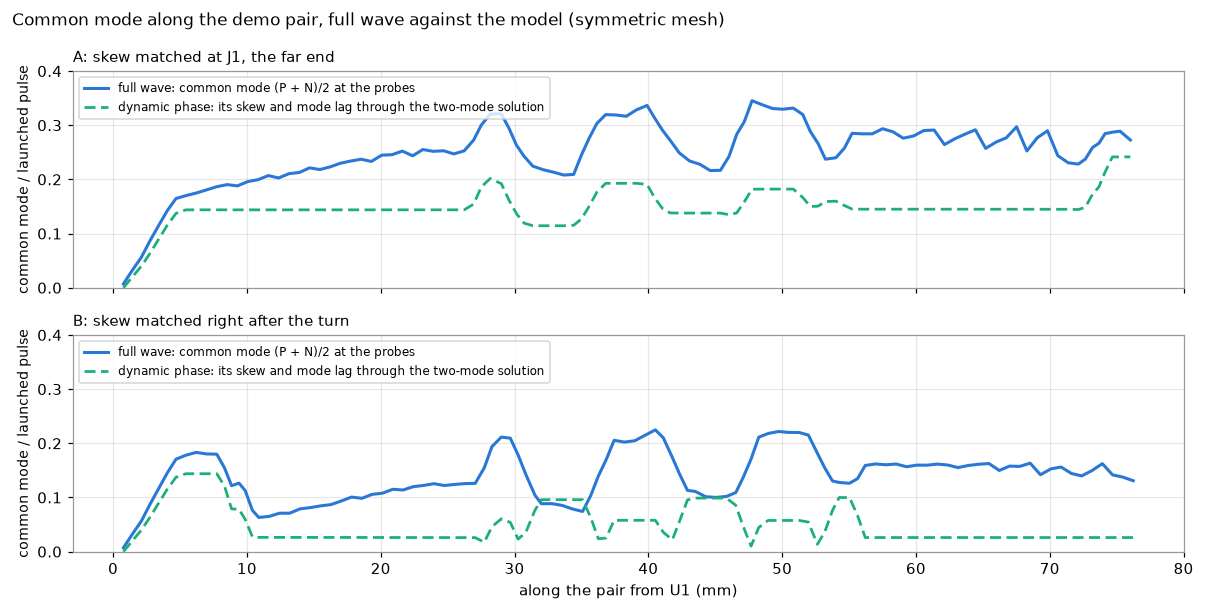
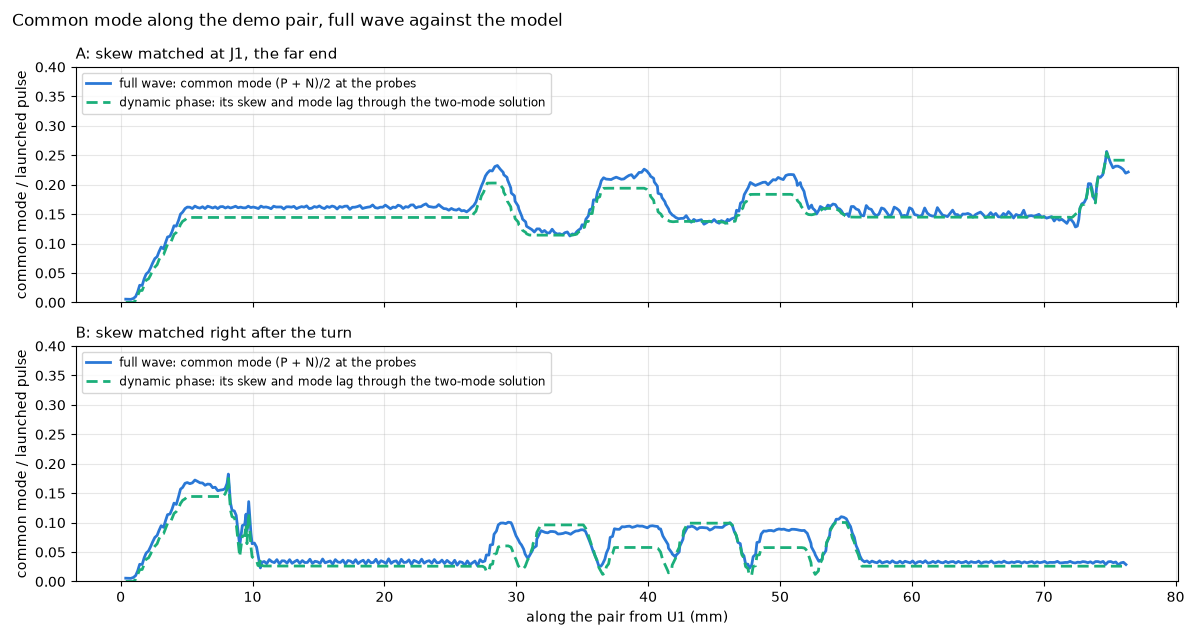
README and dynamic phase guide: equations, sources and the clean full-wave numbers
README: a Dynamic phase section with the core equations, how far it is checked and the
sources. Guide: the openEMS numbers and both common-mode figures redone from the runs with
the traces' edges on the mesh alike (25 % and 3.3 % at J1, mode lag 0.32–0.36 ps/mm, no
growth along the straights); tight bends and meanders and the chart's band described.

diff --git a/docs/high-speed/dynamic-phase.md b/docs/high-speed/dynamic-phase.md
@@ -23,7 +23,7 @@ The tool measures and shows. It doesn't judge: there are no interface standards 
 
 ## The Δt chart
 
-**Export chart (SVG)** under the pair list writes one small plot per pair: Δt along the pair, dashed beside it Δt as a probe on each trace would read it (fading where the skew's common mode has fallen behind the edge, see [the drift](#the-equations-behind-it)), the marker tolerance as a green band, every excursion shaded orange with its peak, and over each plot the pair's ends, its end-to-end skew and its largest |Δt|. All plots share one scale, so the pairs compare at a glance. A source and its compensation read as a plateau: Δt steps up at the bend and only steps back where the compensating bump sits, and the plateau's width is how far apart they are. The numbers go into the SVG's `<metadata>` block and, unless you untick it in the file dialog, into a `.csv` beside it (pair, mm along the pair, Δt in ps).
+**Export chart (SVG)** under the pair list writes one small plot per pair: Δt along the pair, dashed beside it Δt as a probe on each trace would read it (fading where the skew's common mode has fallen behind the edge, see [the drift](#the-equations-behind-it)), the marker tolerance as a green band, every excursion shaded orange with its peak, and over each plot the pair's ends, its end-to-end skew and its largest |Δt|. All plots share one scale, so the pairs compare at a glance. A source and its compensation read as a plateau: Δt steps up at the bend and only steps back where the compensating bump sits, and the plateau's width is how far apart they are. Where a pair has tight bends or meanders, a pale blue band along the Δt line shows the known model error there (see [Assumptions](#assumptions-and-what-isnt-modelled)): up to 9 % more skew than a coupled bend's length difference, 10–20 % less than a tight meander's, applied to the Δt each of them made. Δt itself is not corrected. The numbers go into the SVG's `<metadata>` block and, unless you untick it in the file dialog, into a `.csv` beside it (pair, mm along the pair, Δt in ps as made and as read, and the band's two edges).
 
 ## From the DRC column
 
@@ -116,7 +116,7 @@ Skew turns differential signal into common mode. With P behind N by a small $\de
 
 $$V_\text{diff} = \frac{V_P - V_N}{2} \approx v\!\left(t - \tfrac{\delta}{2}\right), \qquad V_\text{cm} = \frac{V_P + V_N}{2} \approx -\frac{\delta}{2}\,\frac{dv}{dt}$$
 
-a common-mode pulse shaped like the edge's derivative, of order $\delta / t_r$ of the differential amplitude for a rise time $t_r$. A compensating bump $L$ mm further on makes the opposite pulse, aligned with the differential edge as it is then; the first one has fallen behind by $(\tau_\text{e} - \tau_\text{o})\,L$, and the two cancel only while that lag is small against $t_r$. That is the mode lag dynamic phase reports for each excursion (the lag per mm at the gap there, added up along both sides of the stretch; 0 where a side runs alone and on stripline): compare it with your edge's rise time. On the common-mode demo's pair (0.2 mm traces, 0.25 mm apart, 0.12 mm over εr 4.1) the lag is about 0.33 ps/mm, so a fix 73 mm along the pair from the turn (case A, the serpentine included) comes 24 ps late for a 25 ps edge and leaves two common-mode pulses (the full-wave run's two modes run 0.21 ps/mm apart, 16 ps over that stretch), while a fix 2 mm away (case B) cancels; the full-wave run gives a common-mode peak at J1 of 32 % of the differential one for A against 16 % for B. With a tuning profile the lag is in the profile's scale, as the delay is. Beside a pour the odd mode's ratio is applied to both modes; the pour's own effect on the even mode is not modelled.
+a common-mode pulse shaped like the edge's derivative, of order $\delta / t_r$ of the differential amplitude for a rise time $t_r$. A compensating bump $L$ mm further on makes the opposite pulse, aligned with the differential edge as it is then; the first one has fallen behind by $(\tau_\text{e} - \tau_\text{o})\,L$, and the two cancel only while that lag is small against $t_r$. That is the mode lag dynamic phase reports for each excursion (the lag per mm at the gap there, added up along both sides of the stretch; 0 where a side runs alone and on stripline): compare it with your edge's rise time. On the common-mode demo's pair (0.2 mm traces, 0.25 mm apart, 0.12 mm over εr 4.1) the lag is about 0.33 ps/mm, so a fix 73 mm along the pair from the turn (case A, the serpentine included) comes 24 ps late for a 25 ps edge and leaves two common-mode pulses (the full-wave run's two modes run 0.32–0.36 ps/mm apart, 23–26 ps over that stretch), while a fix 2 mm away (case B) cancels; the full-wave run gives a common-mode peak at J1 of 25 % of the differential one for A against 3.3 % for B (the two-mode solution from the model: 26 % and 2.6 %). With a tuning profile the lag is in the profile's scale, as the delay is. Beside a pour the odd mode's ratio is applied to both modes; the pour's own effect on the even mode is not modelled.
 
 ### The equations behind it
 
@@ -154,7 +154,7 @@ $$\Delta t_\text{read} = \delta\,e^{-\Delta\tau^2 / 2\sigma^2}, \qquad \sigma = 
 
 for a Gaussian edge: the skew reads in full where it is made and fades as its common mode falls behind, until the two edges are aligned again and the skew lives only in a common-mode pulse running behind them. Dynamic phase computes this along the route for any distribution of skew (`modes.apparent_dt`: the two-mode solution step by step, in the frequency domain, on a Gaussian edge of the *Edge rise time* setting) and carries it as a second curve, Δt as read, in the chart export; on stripline the two coincide. It is what a two-channel probe or a field solver's per-trace timing shows, not the skew itself, which is why neither is a measurement of Δt past the first discontinuity.
 
-Its size next to the differential signal is then of order $\delta\,\Delta\tau / t_r^2$, within a factor of a few that depends on the edge's shape; once $\Delta\tau$ exceeds the edge the two pulses no longer overlap and what is left is simply the whole common mode, twice over. On the demo's case A, $\delta$ = 8 ps, $\Delta\tau$ = 24 ps (73 mm of coupled pair between the turn and the bumps) and $t_r$ ≈ 25 ps: the order-of-magnitude form gives 0.3, the exact expression for a Gaussian pulse of that rise time 0.43, and the full-wave run gives 0.32 (the common-mode peak over the differential peak at J1's ports), so the three agree within a factor of two. Case B, $\Delta\tau$ under 1 ps, gives 0.02; the 0.16 measured there has other sources (the turn's own change of coupling, the bumps' lone stretches, the serpentine), so the estimate is only a floor. One run each.
+Its size next to the differential signal is then of order $\delta\,\Delta\tau / t_r^2$, within a factor of a few that depends on the edge's shape; once $\Delta\tau$ exceeds the edge the two pulses no longer overlap and what is left is simply the whole common mode, twice over. On the demo's case A, $\delta$ = 8 ps, $\Delta\tau$ = 24 ps (73 mm of coupled pair between the turn and the bumps) and $t_r$ ≈ 25 ps: the order-of-magnitude form gives 0.3, the exact expression for a Gaussian pulse of that rise time 0.43, the two-mode solution from the run's own launched pulse 0.26, and the full-wave run gives 0.25 (the common-mode peak over the differential peak at J1's ports), so all agree within a factor of two. Case B, $\Delta\tau$ under 1 ps, gives 0.02; the full-wave run gives 0.033 and the two-mode solution 0.026. One run each, three cells per dielectric height.
 
 ### Why Δt holds up when the estimate is off
 
@@ -168,7 +168,7 @@ Its size next to the differential signal is then of order $\delta\,\Delta\tau / 
 - **Microstrip:** no solder mask (delay a few % too low), zero copper thickness, and the next copper layer is assumed to be the reference plane.
 - **No plane underneath** (a plain coplanar waveguide, a 2-layer board without a pour on the other side, a plane several layers down) is not detected: a whole plane on the next copper layer is always assumed. Finding out what really lies under each trace is a field solver's job; a tuning profile with your own numbers covers such a board.
 - **Coupling** is modelled on outer layers: from the gap, by the estimate; with a tuning profile, the profile's number at its own gap scaled by that estimate's ratio (see above). On inner layers (stripline) coupling doesn't change the speed.
-- **Meander self-coupling,** which shortens a tight meander's real delay, is not modelled.
+- **Tight bends and meanders** count by their centreline length. A full-wave study on one pair geometry (0.2 mm traces, 0.25 mm apart, 0.12 mm of laminate; extrapolated over three meshes) found that a coupled 180° turn makes about 9 % more skew than its length difference, at both radii tried and with 45° corners alike, and that two tight bumps on one side (corner radius 1.25 track widths, legs 1.5 widths apart) make 17–20 % less skew than the length rule gives, mostly from their corners and partly from their legs' coupling to each other. Neither is corrected; the [Δt chart](#the-δt-chart) shades them as a band, 0 to +9 % on a coupled bend and −10 to −20 % on a tight meander (a corner radius or leg spacing under 3 track widths). A looser meander gets no band, since nothing was measured there.
 - **Grounded coplanar waveguide** is modelled on outer layers without a tuning profile: at each point, the distance to the nearest pour of another net on the same layer speeds that stretch up (a pour past 10 dielectric heights changes nothing). The pour is taken as one straight edge at that distance; stitching vias and the pour's own width are not considered.
 - **Vias** are treated as a piece of line. Pad and antipad capacitance and the via stub are ignored.
 - **Branches** (ESD stubs, second receivers) are shown but their loading isn't modelled.
@@ -210,18 +210,19 @@ The synthetic boards in [`tests/phase_boards.py`](../../tests/phase_boards.py) a
 | Lone trace, full wave | one trace of the coupled test pair (0.2 mm wide, 0.25 mm gap, 0.12 mm over εr 4.1) alone, in a 3D FDTD run (openEMS, not part of the repository): 5.876 ps/mm against the estimate's 5.865 (0.2 %); its ratio to the coupled pair 1.0316 against the estimate's 1.0311, which is the ratio the profile scaling uses. Single mesh, 8 cells per dielectric height; the same mesh put the pair within 0.1 % of a finer one |
 | Findings file | an excursion, a short, a loop, a branch and an unfinished side become findings the findings reader takes whole, every target found on the board |
 | Chart | every pair on one scale, the excursions shaded, the numbers in the SVG and the CSV |
+| Known model error | a coupled 90° turn's band reaches 9 % of the Δt it makes and an S closes it again; a tight bump's band is 10–20 % of its Δt, a looser bump's none; a straight pair has none |
 | No εr in the stackup | FR-4 is used and named as the source |
 | Microstrip vs stripline | microstrip is faster |
 | Coupled pair, and one beside a pour | within 1.5 % of a 2D field solver ([`tests/field_solver.py`](../../tests/field_solver.py)), which itself matches Kirschning and Jansen and Hammerstad and Jensen within 0.4 % |
-| The two traces' signals | from the model's skew, odd-mode delays and mode lag, the two voltages along the pair rebuilt with the modal solution above (every step a delay or a half-sum, done in the frequency domain) and compared with the full-wave run's probes on the demo's case A, on a mesh mirror-symmetric about the pair (on one that is not, the launch alone makes 4 % common mode and a plain straight pair drifts, so that reference was discarded). Just after the U-turn they lie on each other, the common-mode doublet included (figure below): the full-wave common mode is 0.17 of the launched pulse against 0.144 from the turn's centreline skew, 1.2 times, and the demo's bumps convert within 7 % of their skew. Along the straight coupled stretch that follows, the full-wave common mode keeps growing by about 0.005 of the launch per mm, after the turn alone, before A's serpentine and after B's bumps alike, within 40 ps of the differential pulse, so not a reflection, and on a symmetric mesh, so not an asymmetry: a uniform coupled line cannot do it and it is not understood. The serpentine's swings read 1.5 times the model's. A probe's timing on one trace mixes the two modes, so a full-wave per-trace Δt is not the skew the tool computes once common mode exists; the charts compare the common mode instead (second figure) |
-| Common mode along the pair | the full-wave common mode against the model's two-mode prediction on A and B (second figure): the turn makes it in both, B's bumps 2 mm later cut it from 0.18 to 0.07 (model 0.03), A's bumps at J1 leave it, and the serpentine's bends swing it in both; at J1's ports the common-mode peak is 32 % of the differential one for A and 16 % for B |
-| Even mode and mode lag | the even mode is slower than the odd mode on an outer layer, equal inside, the lone line's far apart and a line twice as wide for touching traces; the far-compensated board's excursion carries a lag proportional to its length (about 6 ps over 45 mm at the 1 mm pitch), the locally compensated one under a tenth of that, a stripline pair none. Against the field solver with a magnetic wall at the pair's midline (run on 2026-10-16, not in the repository) Kirschning and Jansen's even mode is within 1 % on the demo pair, the MIPI pair and the test boards' pair; the lag per mm, a difference of two roots, reads 1 to 10 % above the solver's (demo pair 0.33 against 0.30 ps/mm). In the full-wave run of the demo's case A the common and differential pulses, taken as the half-sum and half-difference of the probes side by side, run at 6.04 and 5.83 ps/mm along the straight stretch after the turn: a lag of 0.21 ps/mm, two thirds of the model's, on a finite board with its plane 3 mm beyond the copper and a mesh, mirror-symmetric about the pair, of three cells per dielectric height (one run, no finer mesh tried) |
+| The two traces' signals | from the model's skew, odd-mode delays and mode lag, the two voltages along the pair rebuilt with the modal solution above (every step a delay or a half-sum, done in the frequency domain) and compared with the full-wave run's probes on the demo's cases A and B, with every straight's coordinates rounded so that both traces' edges sit on the mesh alike (in earlier runs a rounding remainder after an arc put one trace's edges just off the mesh lines, the simulation gave the two traces different widths, and the common mode grew along every straight; those runs were discarded). Just after the U-turn the two lie within 2–3 ps of each other, the common-mode doublet included (figure below): the full-wave common mode is 0.16–0.17 of the launched pulse against 0.144 from the turn's centreline skew, 1.1–1.2 times (A's and B's meshes), in line with the extra skew a tight coupled turn makes (see [Assumptions](#assumptions-and-what-isnt-modelled)). Along the straight that follows it stays within 4.5 % of 0.160 for 20 mm, as the two-mode solution says, and after B's bumps 0.030 is left against the model's 0.026. The serpentine's common-mode swing reads 1.35 times the model's on A and 1.0 times on B. One run per case, three cells per dielectric height. A probe's timing on one trace mixes the two modes, so a full-wave per-trace Δt is not the skew the tool computes once common mode exists; the charts compare the common mode instead (second figure) |
+| Common mode along the pair | the full-wave common mode against the model's two-mode prediction on A and B (second figure): the turn makes it in both, B's bumps 2 mm later cut it from 0.17 to 0.030 (model 0.026), A's bumps at J1 raise it from 0.14 to 0.22–0.25 (model 0.24), since the turn's pulse is 24 ps behind by then and the two do not cancel, and the serpentine's bends swing it in both; at J1's ports the common-mode peak is 25 % of the differential one for A and 3.3 % for B (model 26 % and 2.6 %) |
+| Even mode and mode lag | the even mode is slower than the odd mode on an outer layer, equal inside, the lone line's far apart and a line twice as wide for touching traces; the far-compensated board's excursion carries a lag proportional to its length (about 6 ps over 45 mm at the 1 mm pitch), the locally compensated one under a tenth of that, a stripline pair none. Against the field solver with a magnetic wall at the pair's midline (run on 2026-10-16, not in the repository) Kirschning and Jansen's even mode is within 1 % on the demo pair, the MIPI pair and the test boards' pair; the lag per mm, a difference of two roots, reads 1 to 10 % above the solver's (demo pair 0.33 against 0.30 ps/mm). In the full-wave runs of the demo the differential pulse, the half-difference of the probes side by side, runs at 5.73 ps/mm on the straights, and the common-mode doublet, the half-sum, timed by the zero crossing between its two lobes, falls behind it by 0.32–0.36 ps/mm on A's two straights, B's and a U-turn alone, with the model's 0.33 inside that range; on a finite board with its plane 3 mm beyond the copper and a mesh of three cells per dielectric height (one run per case, no finer mesh tried) |
 | Stackup from the board file | εr is read from the `.kicad_pcb` text |
 | Live tracker | recomputes only changed pairs, spreads work over polls, follows Blender's settings |
 
-<img src="common-mode-waveforms.png" alt="P and N voltages 8 mm along the demo pair, just after the U-turn: the full-wave run's probes and the two-mode reconstruction from dynamic phase lie on each other, the common-mode doublet included" width="760">
+<img src="common-mode-waveforms.png" alt="P and N voltages 8 mm along the demo pair, just after the U-turn: the full-wave run's probes and the two-mode reconstruction from dynamic phase lie within 2 to 3 ps of each other, the common-mode doublet included, 0.165 of the launched pulse in the full wave against 0.144 from the model" width="760">
 
-<img src="common-mode-along.png" alt="Common mode along the demo pair for cases A and B, the full-wave run against the model's two-mode prediction: the turn makes it, B's bumps right after cut it, A's bumps at the far end leave it" width="760">
+<img src="common-mode-along.png" alt="Common mode along the demo pair for cases A and B, the full-wave run against the model's two-mode prediction: the turn makes it, it stays flat along the straights, B's bumps right after cut it, A's bumps at the far end raise it" width="760">
 
 **Still to do:** compare the end-to-end P and N delays with KiCad's own time-domain tuning on a real board with a tuning profile. They should match wherever the pair runs at the profile's gap, and differ by the lone stretches' few percent elsewhere.
 
@@ -243,7 +244,7 @@ The synthetic boards in [`tests/phase_boards.py`](../../tests/phase_boards.py) a
 |---|---|
 | [`kileido_bridge/channels.py`](../../kileido_bridge/channels.py) | pairs, channels through series parts, copper graph, ends and routes |
 | [`kileido_bridge/delays.py`](../../kileido_bridge/delays.py) | delay model: tuning profiles, microstrip, stripline, vias |
-| [`kileido_bridge/phase.py`](../../kileido_bridge/phase.py) | walk, alignment, Δt, excursions, live tracker, frames |
+| [`kileido_bridge/phase.py`](../../kileido_bridge/phase.py) | walk, alignment, Δt, excursions, the known model error band, live tracker, frames |
 | [`kileido_bridge/phase_findings.py`](../../kileido_bridge/phase_findings.py) | the DRC column's Dynamic phase button: every pair as a findings file |
 | [`blender_addon/kileido/phase_chart.py`](../../blender_addon/kileido/phase_chart.py) | the Δt chart: SVG and CSV |
 | [`blender_addon/kileido/phase.py`](../../blender_addon/kileido/phase.py) | drawing: tint, pulses, glow, via light, markers, labels |

diff --git a/README.md b/README.md
@@ -40,6 +40,7 @@ Right: flex mode (beta): a flex LED ring, flat in KiCad with its marks on the Be
 - Flex and rigid-flex boards (beta): bends, twists, cones, wraps and domes folded in Blender from marks on KiCad's Bend and Stiffener layers, with the stiffeners, the coverlay and flex checks as you route. Two KiCad templates to start from. See the [flex guide](docs/flex.md).
 - KiCad DRC on the 3D board: run KiCad's own design rule check from the sidebar and click a finding to see it drawn where it is: the items lit, the gap measured against its limit, a hole problem cut open in section, and a marker per finding on the board. See the [DRC guide](docs/drc.md).
 - LLM review on the 3D board: paste one prompt into the LLM tool you already use, and its findings are drawn where they are, every claim measured again on the live board and its suggestions checked by KiCad's DRC. See the [LLM guide](docs/llm-review.md).
+- Dynamic phase for differential pairs: how far P and N are apart in time at every point along the pair, live while you route, and how much common mode a skew leaves behind. See [Dynamic phase](#dynamic-phase) below and the [dynamic phase guide](docs/high-speed/dynamic-phase.md).
 
 <p align="center">
   <img src="assets/llm-return-vias.png" width="640" align="middle" alt="Four labels beside two signal vias on a grey X-ray board: Return via 2.96 mm > 1.00 mm max and 2.59 mm > 1.00 mm max, and two translucent red suggested vias, each labelled Suggested via, fits (KiCad DRC).">
@@ -70,6 +71,56 @@ Right: the cut plane opens the board and shows its cross section, with each via 
 </p>
 <p align="center"><sub>Left: IMS mode: an LED board on a copper base in Realistic mode. In KiCad it is a plain 2-layer board; KiLeidoscope draws its metal base. See the <a href="docs/ims.md">IMS guide</a>.<br>
 Right: flex mode (beta): the flex template folded in Blender from a few marks on its Bend and Stiffener layers in KiCad, with its coverlay and stiffeners. See the <a href="docs/flex.md">flex guide</a>.</sub></p>
+
+## Dynamic phase
+
+KiCad 10 matches a differential pair by its total delay, end to end. A pair can match there and still run out of phase in between: a bend near one end that is only compensated at the far end leaves P and N apart in time over everything between. Where they are apart, part of the differential signal turns into common mode, which radiates and picks up noise, and a correction at the far end does not undo it. Dynamic phase, in the High speed column, shows that time difference Δt at every point along each pair while you route, marks where it stays above your tolerance, exports a Δt chart (SVG and CSV) and lists its findings in the DRC column. The [dynamic phase guide](docs/high-speed/dynamic-phase.md) has every step, assumption and check.
+
+### The equations
+
+Each side is walked from the driver end, adding up each piece's length times its unit delay (tracks, via barrels, the hop across a series part), and the two sides are matched point by point:
+
+$$t(z) = \sum_{\text{pieces up to } z} \ell_i\,\tau_i, \qquad \Delta t(z) = t_P(z) - t_N(z'), \qquad \tau = \frac{\sqrt{\varepsilon_\text{eff}}}{c}$$
+
+with $z'$ the point on N matched to $z$ on P. τ comes from the netclass's KiCad tuning profile where it has one: the profile's ps/mm holds where the pair runs at the profile's own gap, and a stretch at another gap, or one side alone, is scaled by the estimates' $\sqrt{\varepsilon_\text{eff}}$ ratio. Without a profile it comes from closed-form estimates: Hammerstad and Jensen for a lone microstrip, Kirschning and Jansen's odd mode for a coupled pair at the gap measured every 50 µm, Ghione and Naldi's conformal mapping beside a pour, and $\varepsilon_r$ itself on stripline.
+
+On a uniform, lossless coupled line the two traces carry two modes that do not exchange energy, the even (common) and the odd (differential), each with its own unit delay (Tripathi; Pozar):
+
+$$V_{P,N}(z,t) = e\!\left(t - \tau_\text{e} z\right) \pm o\!\left(t - \tau_\text{o} z\right)$$
+
+A skew δ turns part of the differential edge $s(t)$ into a common-mode pulse shaped like the edge's derivative; in mixed-mode S-parameters (Bockelman and Eisenstadt) that is $|S_\text{cd21}|$:
+
+$$e(t) \approx -\frac{\delta}{2}\,s'\!\left(t - \frac{\delta}{2}\right), \qquad |S_\text{cd21}| = |\sin(\pi f \delta)|$$
+
+On microstrip the even mode is the slower one, so over $\ell$ mm of coupled pair that pulse falls behind the edge by the mode lag, which dynamic phase reports for each excursion (Kirschning and Jansen's even mode; on stripline it is zero). It is the same velocity difference that causes far-end crosstalk (Hall and Heck; Johnson and Graham):
+
+$$\Delta\tau = \ell\,(\tau_\text{e} - \tau_\text{o})$$
+
+A compensating bump that far along makes the opposite pulse, aligned with the edge as it is then, so the two cancel only while $\Delta\tau$ is small against the edge's rise time $t_r$; what is left is about $-\tfrac{\delta}{2}\,\Delta\tau\,s''$. For the same reason a probe on each trace does not read δ itself past the skew, but a value that fades as the common mode falls behind. The chart draws it dashed beside Δt, for a Gaussian edge of the *Edge rise time* setting:
+
+$$\Delta t_\text{read} = \delta\,e^{-\Delta\tau^2 / 2\sigma^2}, \qquad \sigma = t_r / 2.56$$
+
+### How far it is checked
+
+- Unit delays: within 1.5 % of a 2D field solver for a coupled pair and for one beside a pour; the even mode within 1 %.
+- One lone trace in a 3D full-wave run (openEMS, not part of KiLeidoscope): 5.876 ps/mm against the estimate's 5.865.
+- Mode lag on a test pair (0.2 mm traces, 0.25 mm apart, 0.12 mm over εr 4.1): 0.33 ps/mm from the model, 0.32–0.36 in the full-wave run.
+- Common mode left at the connector, as a fraction of the differential peak, on two routes of that pair with the same skew: 25 % when it is compensated 73 mm later (model 26 %), 3.3 % when compensated 2 mm later (model 2.6 %).
+- Known limits, not corrected: a tight coupled bend makes about 9 % more skew than its length difference, and a tight meander of one side 17–20 % less than its extra length (one pair geometry each). The Δt chart shades this known error as a band wherever a pair has such features.
+
+The full-wave numbers come from one run each on one mesh, except the bend and meander ones, which are extrapolated over three meshes. They check the model; only a measurement on a real board checks the board.
+
+### Sources
+
+- M. Kirschning and R. H. Jansen, "Accurate wide-range design equations for the frequency-dependent characteristic of parallel coupled microstrip lines," *IEEE Trans. Microwave Theory Tech.*, vol. 32, no. 1, pp. 83–90, 1984.
+- E. Hammerstad and Ø. Jensen, "Accurate models for microstrip computer-aided design," *IEEE MTT-S Int. Microwave Symp. Digest*, 1980, pp. 407–409.
+- G. Ghione and C. Naldi, "Coplanar waveguides for MMIC applications: effect of upper shielding, conductor backing, finite-extent ground planes, and line-to-line coupling," *IEEE Trans. Microwave Theory Tech.*, vol. 35, no. 3, pp. 260–267, 1987.
+- V. K. Tripathi, "Asymmetric coupled transmission lines in an inhomogeneous medium," *IEEE Trans. Microwave Theory Tech.*, vol. 23, no. 9, pp. 734–739, 1975.
+- D. E. Bockelman and W. R. Eisenstadt, "Combined differential and common-mode scattering parameters: theory and simulation," *IEEE Trans. Microwave Theory Tech.*, vol. 43, no. 7, pp. 1530–1539, 1995.
+- D. M. Pozar, *Microwave Engineering*, 4th ed., Wiley, 2012.
+- S. H. Hall and H. L. Heck, *Advanced Signal Integrity for High-Speed Digital Designs*, Wiley, 2009.
+- H. W. Johnson and M. Graham, *High-Speed Digital Design: A Handbook of Black Magic*, Prentice Hall, 1993.
+- E. Bogatin, *Signal and Power Integrity — Simplified*, 3rd ed., Pearson, 2018.
 
 ## Architecture
 
